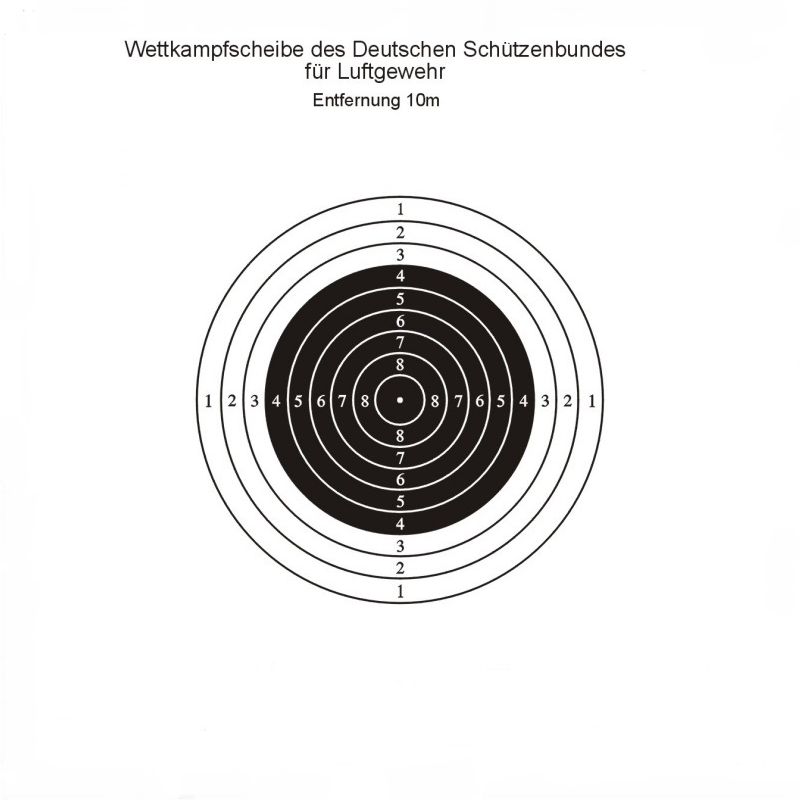
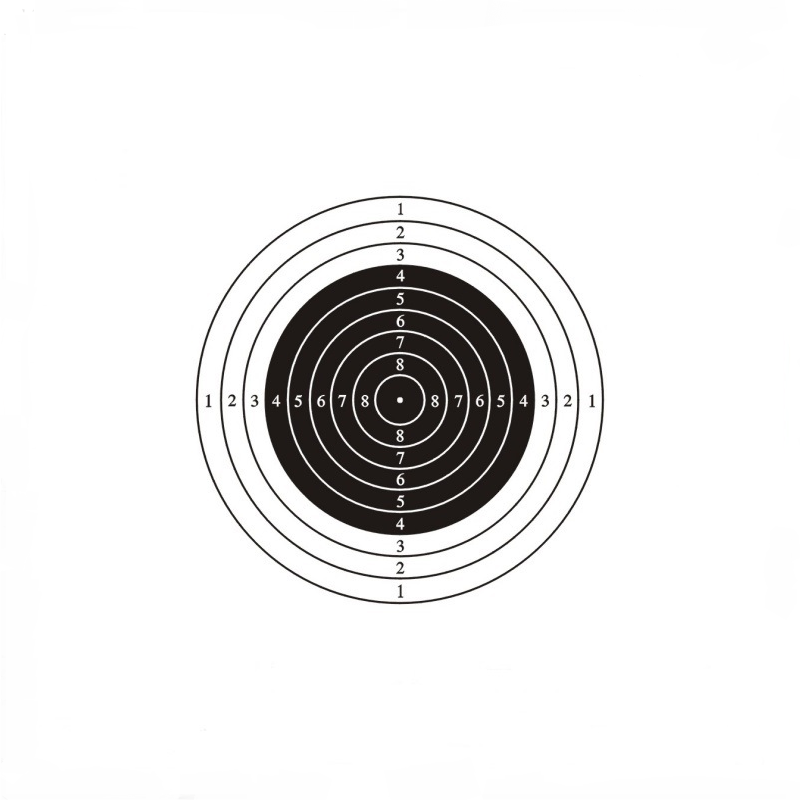
rework

Changed region(s): [[0.1562, 0.0312, 0.7812, 0.1562]]

diff --git a/angular-client/src/app/app.component.ts b/angular-client/src/app/app.component.ts
@@ -16,6 +16,7 @@ export class AppComponent implements OnInit {
   trigger_calibrated = false;
   startTime = new Date().getTime();
   trigger_pull_time = 0;
+  shot_selected = false;
 
   ngOnInit(): void {
     this.context = this.canvas.nativeElement.getContext('2d')!;
@@ -30,6 +31,7 @@ export class AppComponent implements OnInit {
 
     this.socket.onmessage = (event) => {
       const receivedTime = new Date().getTime();
+
       const data = event.data.split(';');
       const shotdata = [
         ((parseFloat(data[0]) * -1) / 3) * 271 + 400,
@@ -47,6 +49,24 @@ export class AppComponent implements OnInit {
         }
         return;
       }
+
+      if (receivedTime - this.trigger_pull_time < 2000) {
+        this.startTime = receivedTime;
+        let series_offset = 1;
+        if (this.series[this.series.length - 1].length == 1) {
+          series_offset = 2;
+        }
+
+        this.series[this.series.length - series_offset][
+          this.series[this.series.length - series_offset].length - 2
+        ].push(shotdata);
+      }
+
+      if (receivedTime - this.trigger_pull_time < 30000) {
+        return;
+      }
+
+      console.log('ping');
 
       if (this.series[this.series.length - 1].length > 9) {
         this.series.push([]);
@@ -66,6 +86,9 @@ export class AppComponent implements OnInit {
       ].push(shotdata);
 
       this.detectTriggerPull(shotdata[2], receivedTime);
+
+      if (this.shot_selected) return;
+
       this.selectShot(
         this.series.length - 1,
         this.series[this.series.length - 1].length - 1
@@ -76,15 +99,12 @@ export class AppComponent implements OnInit {
   detectTriggerPull(triggerData: number, receivedTime: number) {
     console.log(triggerData);
     console.log(this.calibratedTriggerPull);
-    if (
-      triggerData < this.calibratedTriggerPull - 40 &&
-      receivedTime - this.trigger_pull_time > 30000
-    ) {
+    if (triggerData < this.calibratedTriggerPull - 40) {
       this.trigger_pull_time = receivedTime;
       console.log('PENG');
       this.series[this.series.length - 1].push([]);
       if (this.series[this.series.length - 1].length > 9) {
-        this.series.push([]);
+        this.series.push([[]]);
       }
     }
   }
@@ -95,6 +115,13 @@ export class AppComponent implements OnInit {
     img.src = 'assets/Luftgewehrscheibe.png';
     img.onload = () => {
       this.context.beginPath();
+      this.context.clearRect(
+        0,
+        0,
+        this.canvas.nativeElement.width,
+        this.canvas.nativeElement.height
+      );
+      this.context.drawImage(img, 0, 0);
       this.series[series][shot].forEach((data, i) => {
         this.context.moveTo(data[0], data[1]);
         if (i != 0) {
@@ -104,18 +131,9 @@ export class AppComponent implements OnInit {
           );
         }
         if (!this.series[series][shot][i + 1]) {
-          this.context.arc(data[0], data[1], 20, 0, 2 * Math.PI, false);
-          this.context.fillStyle = 'red';
-          this.context.fill();
+          this.context.arc(data[0], data[1], 10, 0, 2 * Math.PI, false);
         }
       });
-      this.context.clearRect(
-        0,
-        0,
-        this.canvas.nativeElement.width,
-        this.canvas.nativeElement.height
-      );
-      this.context.drawImage(img, 0, 0);
       this.context.stroke();
     };
   }

diff --git a/angular-client/src/app/app.component.html b/angular-client/src/app/app.component.html
@@ -1,23 +1,49 @@
 <div id="page">
-  <div id="header">
-    <h1 id="HeaderText">OPENSHOT</h1>
-  </div>
   <div id="content">
     <div id="target">
-      <canvas #canvas id="canavas" width="800" height="800">
-      </canvas>
-      <div id="target-text" *ngIf="trigger_calibrated">CALIBRATED</div>
+      <canvas #canvas id="canavas" width="800" height="800"> </canvas>
     </div>
     <div id="sidebar">
       <h1 id="SidebarText">SHOT&nbsp;SELECTION</h1>
       <ng-container *ngFor="let serie of series; let i = index">
-        <div class="serie" >
-          <div class="serie-number">{{i + 1}}. Series</div>
+        <div class="serie">
+          <div class="serie-number">{{ i + 1 }}. Series</div>
           <ng-container *ngFor="let shots of serie; let j = index">
-            <button class="shot" (click)="selectShot(i,j)">{{j + 1}}. Shot</button>
+            <div *ngIf="series[i + 1] || shots[j + 1]">
+              <button
+                class="shot"
+                (click)="shot_selected = true; selectShot(i, j)"
+              >
+                {{ j + 1 }}. Shot
+              </button>
+            </div>
           </ng-container>
         </div>
       </ng-container>
+      <div class="serie">
+        <div class="serie-number">Options</div>
+        <button
+          class="shot"
+          (click)="
+            calibratedTriggerPull = 5000;
+            trigger_calibrated = false;
+            trigger_samples = 0
+          "
+        >
+          Recalibrate
+        </button>
+        <button
+          class="shot"
+          (click)="shot_selected = false"
+          [disabled]="!shot_selected"
+        >
+          Deselect
+        </button>
+        <div id="target-text" *ngIf="trigger_calibrated">CALIBRATED</div>
+        <div id="target-text-disabled" *ngIf="!trigger_calibrated">
+          CALIBRATED
+        </div>
+      </div>
     </div>
   </div>
 </div>

diff --git a/angular-client/src/app/app.component.scss b/angular-client/src/app/app.component.scss
@@ -16,8 +16,7 @@
 }
 
 #content {
-    flex: 9;
-    min-height: 100%;
+    flex: 1;
     display: flex;
     flex-direction: row;
     flex-wrap: wrap;
@@ -25,7 +24,7 @@
 
 #target {
     margin: 20px;
-    flex: 1.2;
+    flex: 0.8;
     box-shadow: 0 0 10px 5px #3d3d3d;
     background-color: #fff !important;
 }
@@ -33,6 +32,15 @@
 #target-text {
     text-align: center;
     background-color: #89ce94;
+    border-radius: 3px;
+    padding: 5px;
+    margin: 5px;
+    color: #000 !important;
+}
+
+#target-text-disabled {
+    text-align: center;
+    background-color: #ce8989;
     border-radius: 3px;
     padding: 5px;
     margin: 5px;
@@ -87,4 +95,10 @@ canvas {
     transition: background-color .2s ease-in-out;
     -moz-transition: background-color .2s ease-in-out;
     -webkit-transition: background-color .2s ease-in-out;
+}
+
+.shot:disabled {
+    background-color: #707070;
+    border: #c6eccc 2px solid;
+    color: #c6eccc !important;
 }

diff --git a/angular-client/src/styles.scss b/angular-client/src/styles.scss
@@ -1,5 +1,5 @@
 /* You can add global styles to this file, and also import other style files */
-body, html {margin: 0; background-color: #7e7e7e; min-height: 100%;}
+body, html {margin: 0; background-color: #7e7e7e; height: 100%;}
 html * {
     font-size: 16px;
     line-height: 1.625;

diff --git a/random-bs-go/OpenShootClient.py b/random-bs-go/OpenShootClient.py
@@ -1,4 +1,4 @@
-import cv2
+
 import socket
 import tkinter
 import threading
